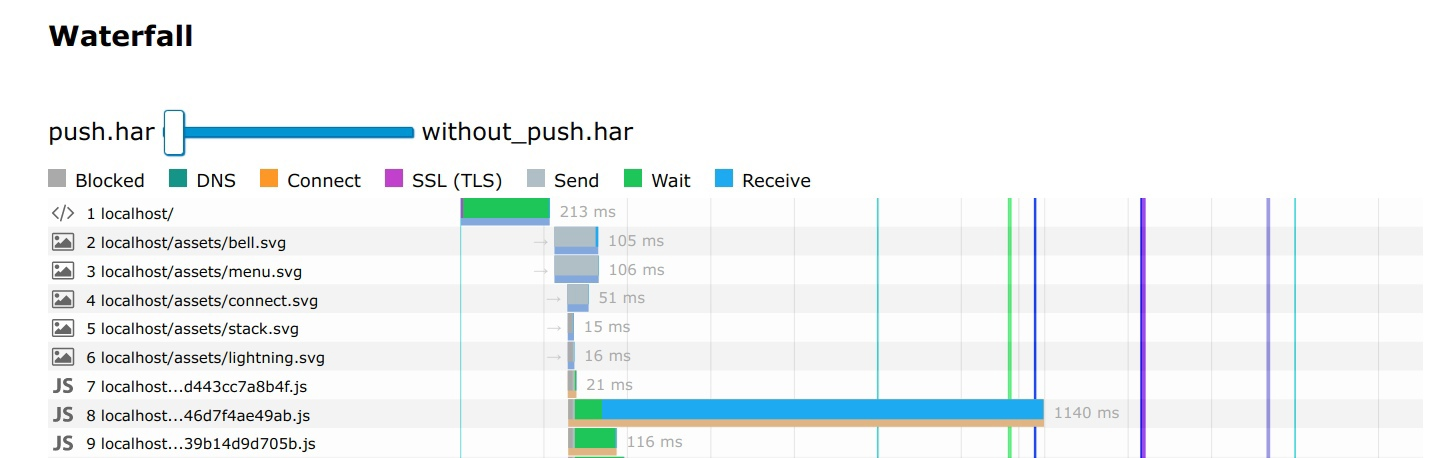
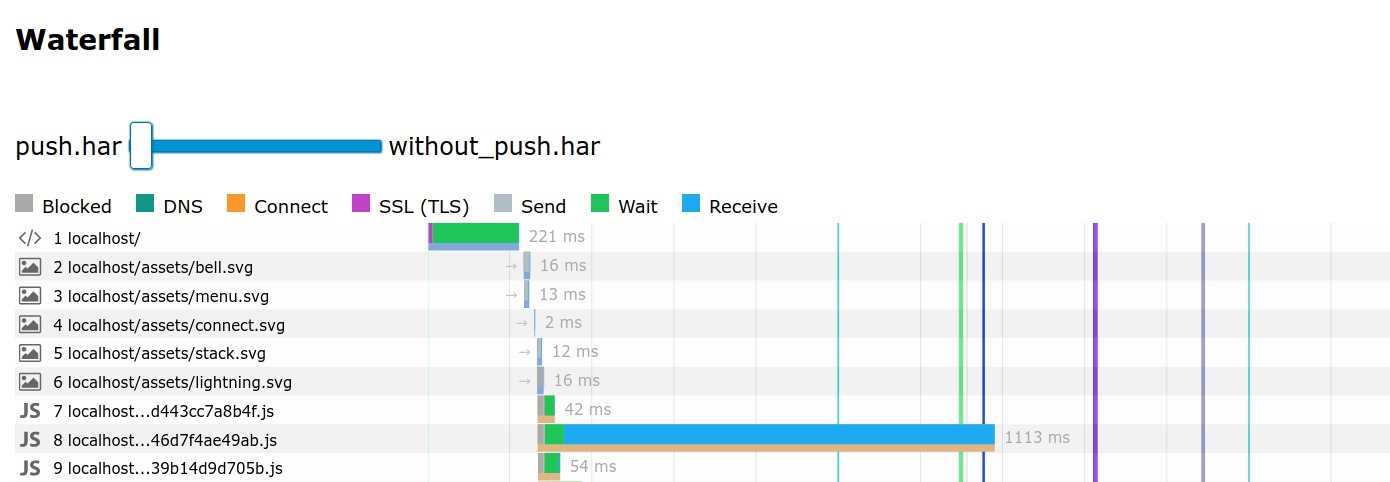
Comparison

Changed region(s): [[0.0, 0.2445, 0.8043, 1.0], [0.8662, 0.4585, 0.9281, 1.0], [0.0, 0.0306, 0.1547, 0.1223]]

diff --git a/case-study.md b/case-study.md
@@ -52,4 +52,6 @@
 
 `server-push` картинки отправляются в самую первую очередь.
 
-По времени загрузки страницы существенных изменений нет, т.к. основное время занимает загрузка `js`-файла.
+По времени загрузки страницы существенных изменений нет (в среднем примерно 100-200 мс), т.к. основное время занимает загрузка `js`-файла.
+
+![Screenshot](https://github.com/Exterm1nate/rails-optimization-task5/blob/master/results/compare.jpg?raw=true)
